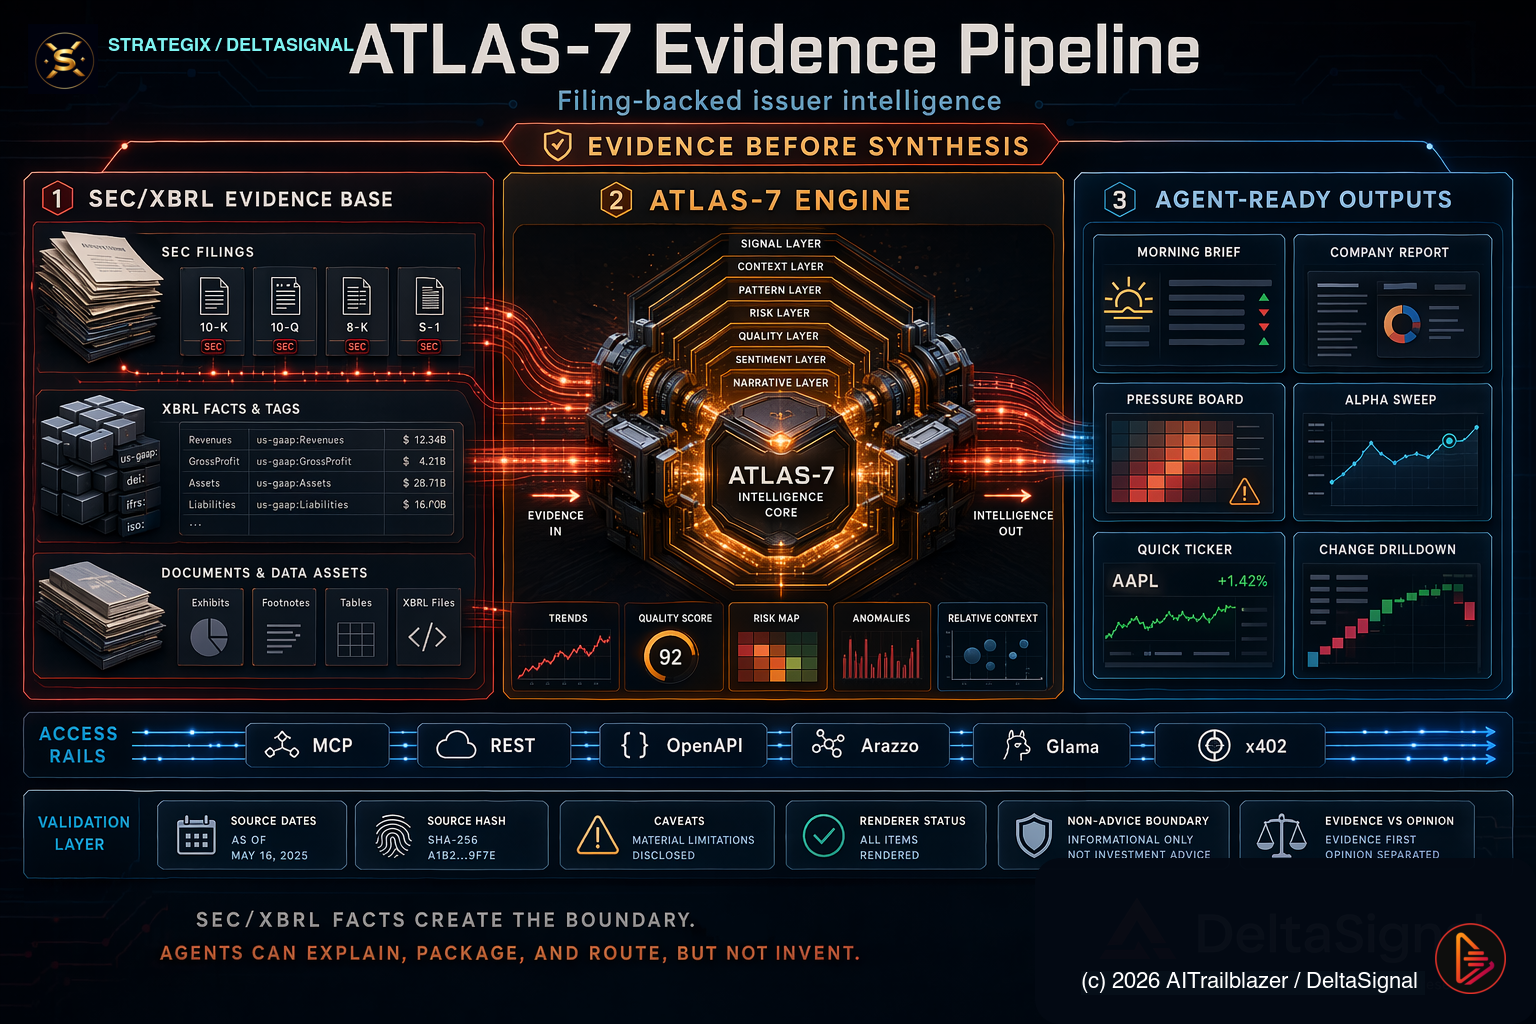
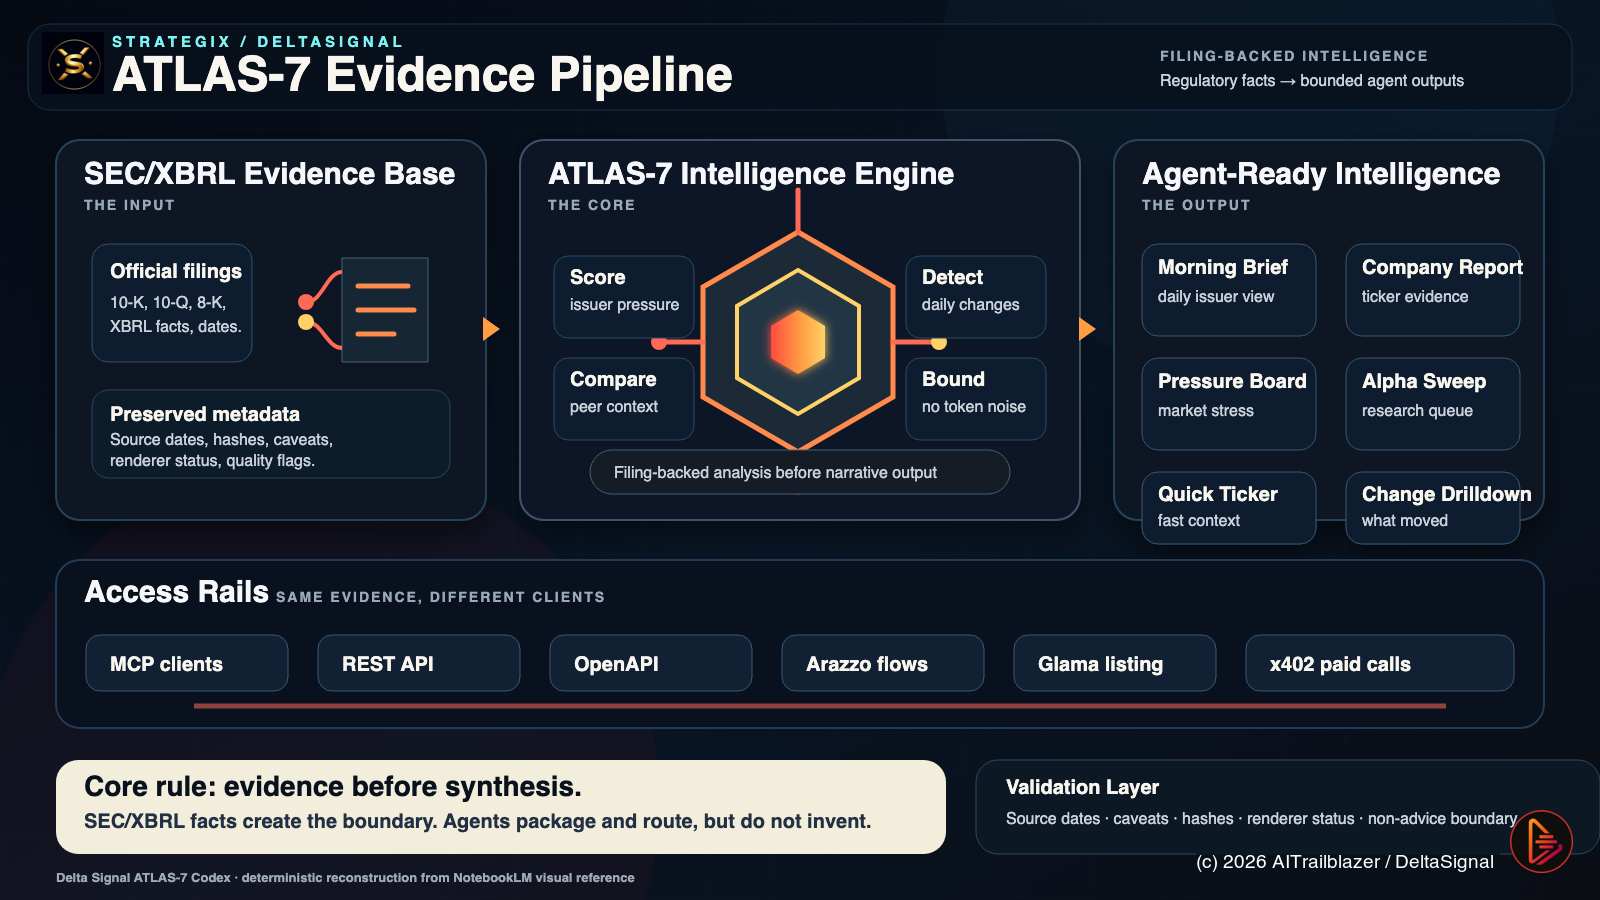
Show hero image on landing page

diff --git a/index.html b/index.html
@@ -6,6 +6,7 @@
   <meta name="description" content="Delta Signal ATLAS-7 - SEC-grounded risk, fundamentals, daily monitoring, SPECTRA field maps, evidence drilldowns, and signal intelligence for the 215-row crypto-exposed public-company universe through MCP, Open API, and x402.">
   <title>Delta Signal ATLAS-7 • SEC-Grounded Issuer Intelligence</title>
   <link rel="icon" href="./assets/logo.png" type="image/png">
+  <link rel="preload" as="image" href="./assets/atlas7-evidence-pipeline.png">
   <link rel="alternate" type="application/rss+xml" title="Delta Signal ATLAS-7 Changelog RSS" href="./rss.xml">
   <link rel="alternate" type="application/atom+xml" title="Delta Signal ATLAS-7 Changelog Atom" href="./atom.xml">
   <meta property="og:image" content="https://aitrailblazer.github.io/deltasignal-atlas-codex-plugin/assets/atlas7-evidence-pipeline.png">
@@ -1672,13 +1673,13 @@
 <body>
   <main>
     <section class="hero">
-      <img class="hero-image" src="./assets/atlas7-evidence-pipeline.png" alt="">
+      <img class="hero-image" src="./assets/atlas7-evidence-pipeline.png" alt="" decoding="async" fetchpriority="high">
       <div class="hero-image-scrim" aria-hidden="true"></div>
       <canvas id="particles" aria-hidden="true"></canvas>
       <div class="hero-inner">
         <div class="hero-topline">
           <img src="./assets/logo.png" class="logo" alt="Delta Signal logo">
-          <p class="eyebrow">MCP live • EDGAR verified • OpenAPI • SPECTRA • x402</p>
+          <p class="eyebrow">MCP live • EDGAR verified • SPECTRA • x402</p>
         </div>
         <div class="hero-layout">
           <div class="hero-copy">
@@ -1688,10 +1689,10 @@
               <span>Daily EDGAR CompanyFacts -> ATLAS-7 evidence rows -> SPECTRA field maps -> REST, MCP, Arazzo, and x402 workflows.</span>
             </p>
             <div class="quick-facts" aria-label="Delta Signal ATLAS-7 essentials">
-              <div class="quick-fact"><strong>What it is</strong><span>Evidence pipeline for 215 crypto-exposed public-company issuers, grounded in SEC/XBRL facts.</span></div>
-              <div class="quick-fact"><strong>How it updates</strong><span>Nightly EDGAR job waits for CompanyFacts, mirrors or reconstructs the date, then runs process-changes.</span></div>
-              <div class="quick-fact"><strong>What ATLAS-7 adds</strong><span>Daily changes, issuer history, stress, peer, alpha, readiness, caveats, and manifests for MCP tools.</span></div>
-              <div class="quick-fact"><strong>What SPECTRA adds</strong><span>Field-map contracts from ATLAS history: source dates, ranges, labels, provenance, and soft-miss states.</span></div>
+              <div class="quick-fact"><strong>What it is</strong><span>Evidence pipeline for 215 crypto-exposed issuers grounded in SEC/XBRL facts.</span></div>
+              <div class="quick-fact"><strong>How it updates</strong><span>Nightly EDGAR waits for CompanyFacts, mirrors or reconstructs the date, then runs process-changes.</span></div>
+              <div class="quick-fact"><strong>What ATLAS-7 adds</strong><span>Daily changes, issuer history, stress, peers, alpha, readiness, caveats, and MCP manifests.</span></div>
+              <div class="quick-fact"><strong>What SPECTRA adds</strong><span>Field-map contracts from ATLAS history: dates, ranges, labels, provenance, and soft-miss states.</span></div>
             </div>
             <nav class="toc-panel" aria-label="Page contents">
               <strong>Jump to</strong>
